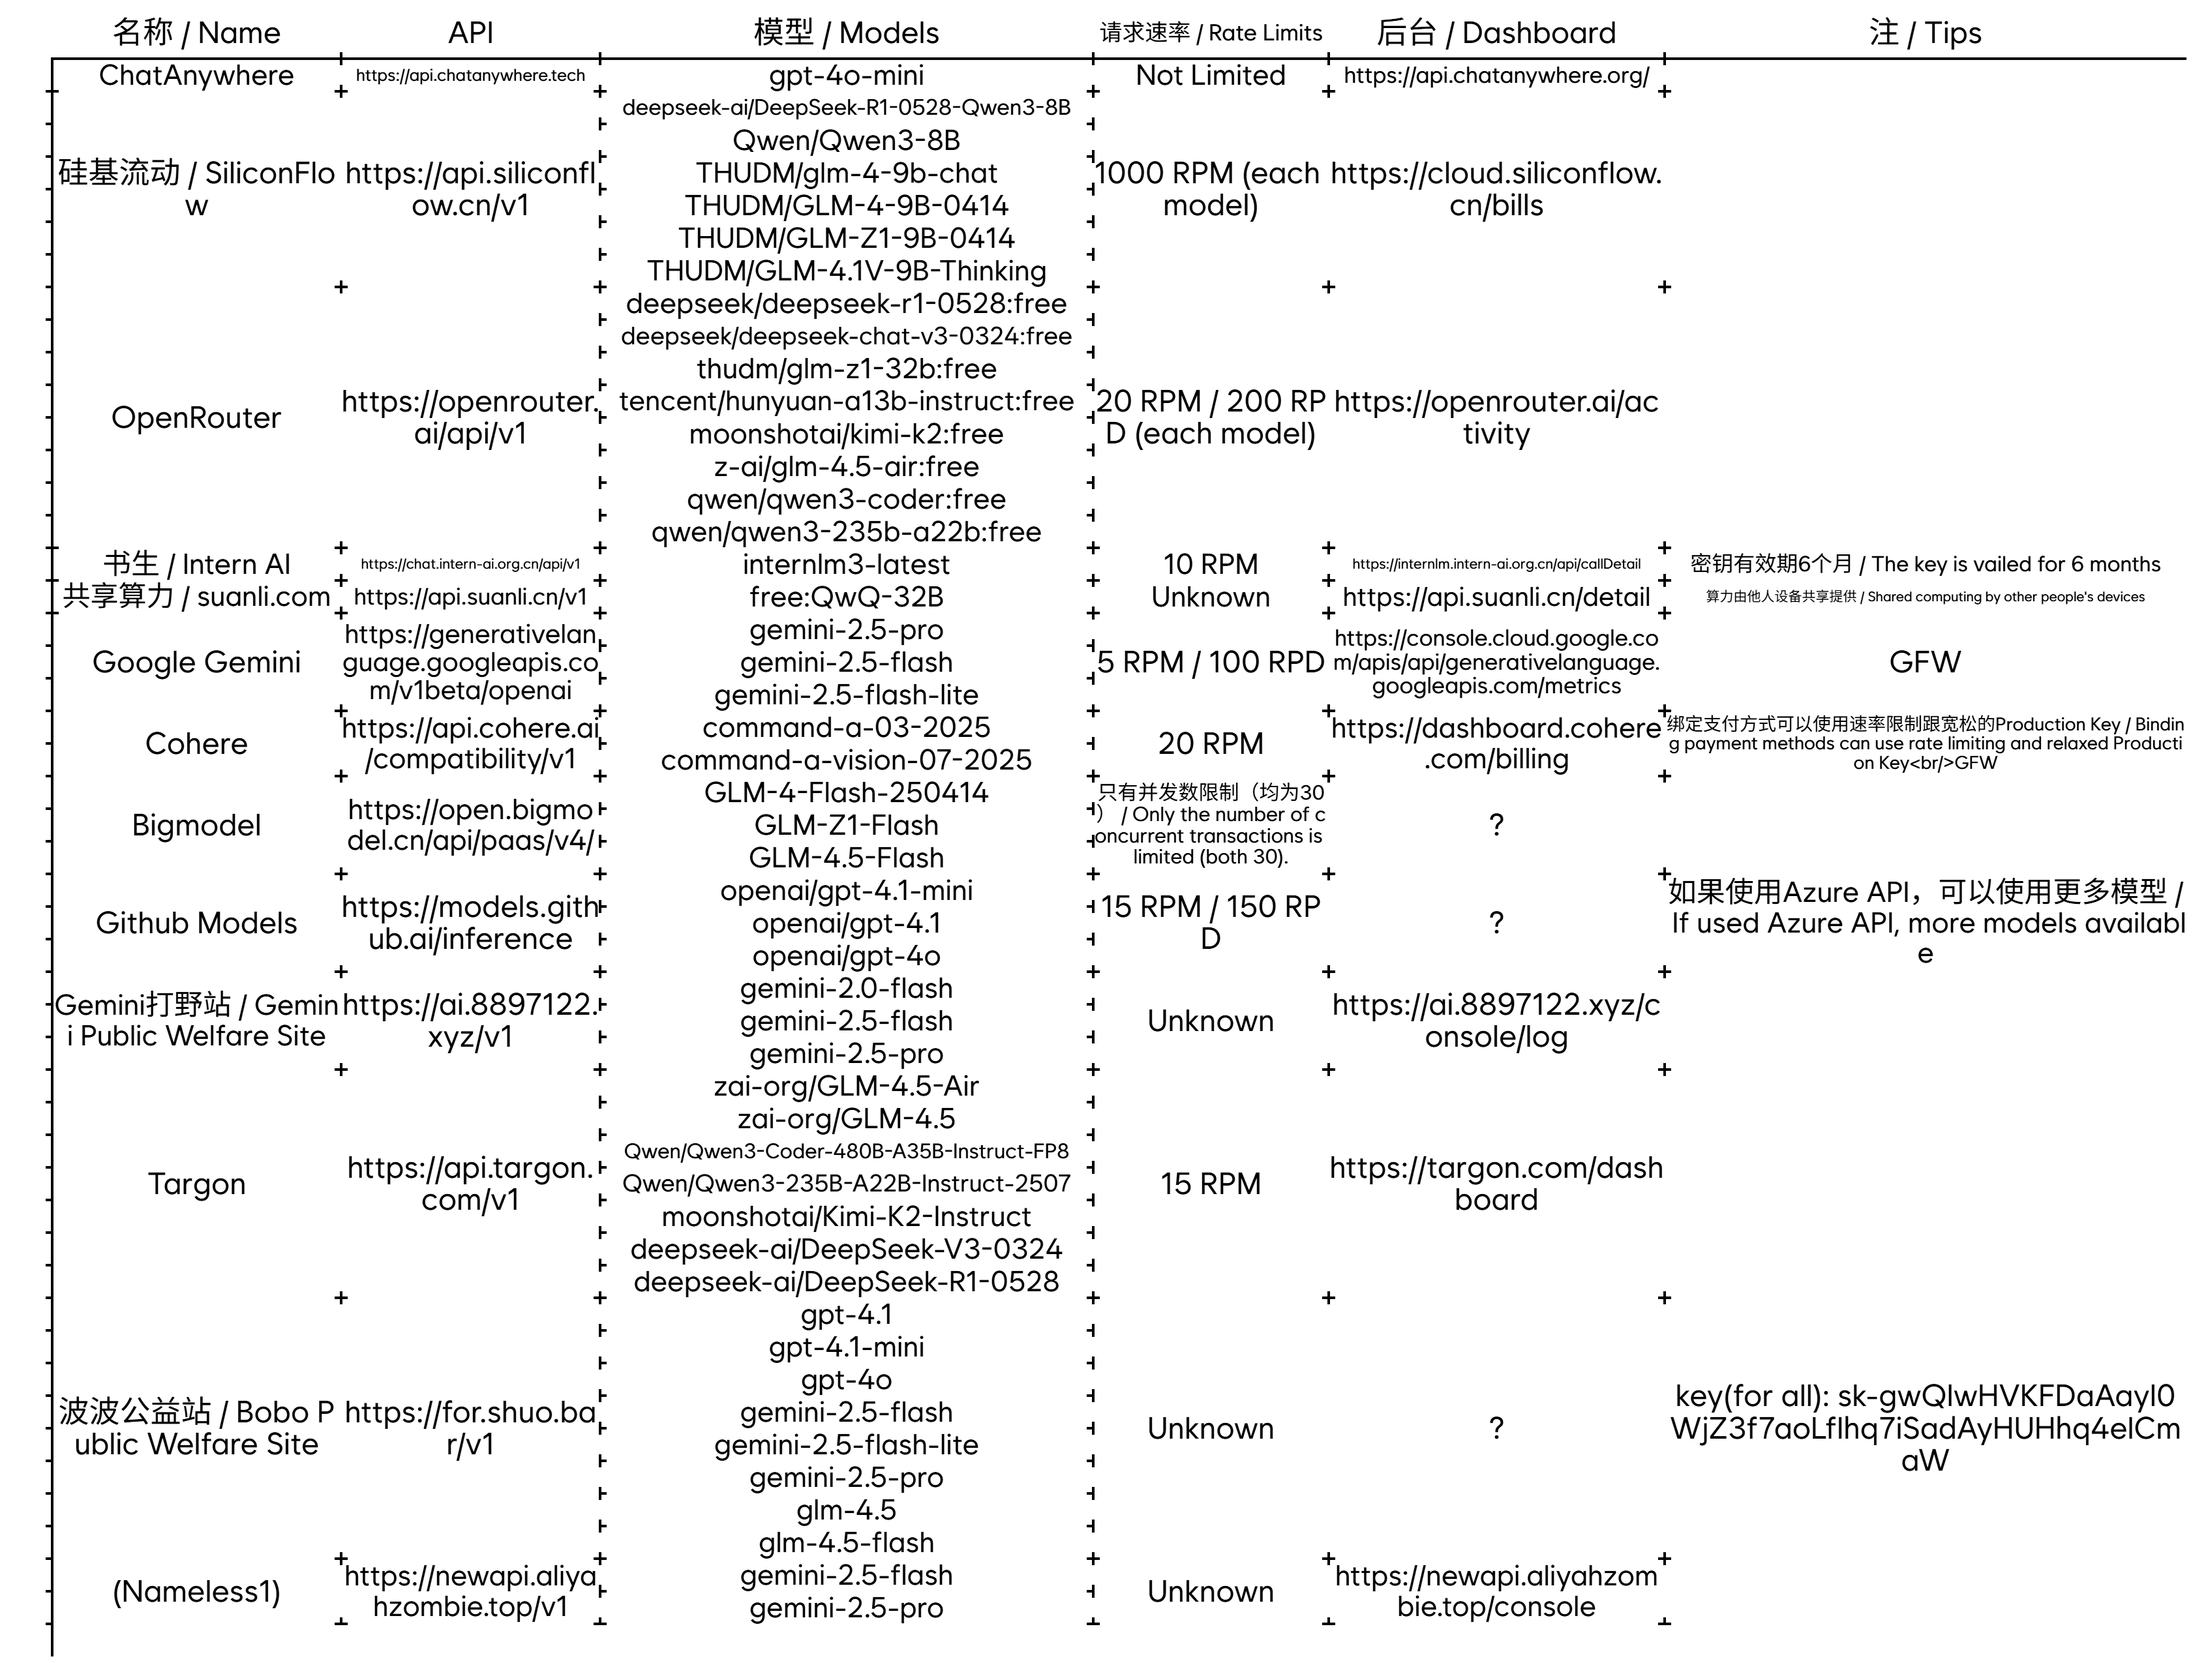
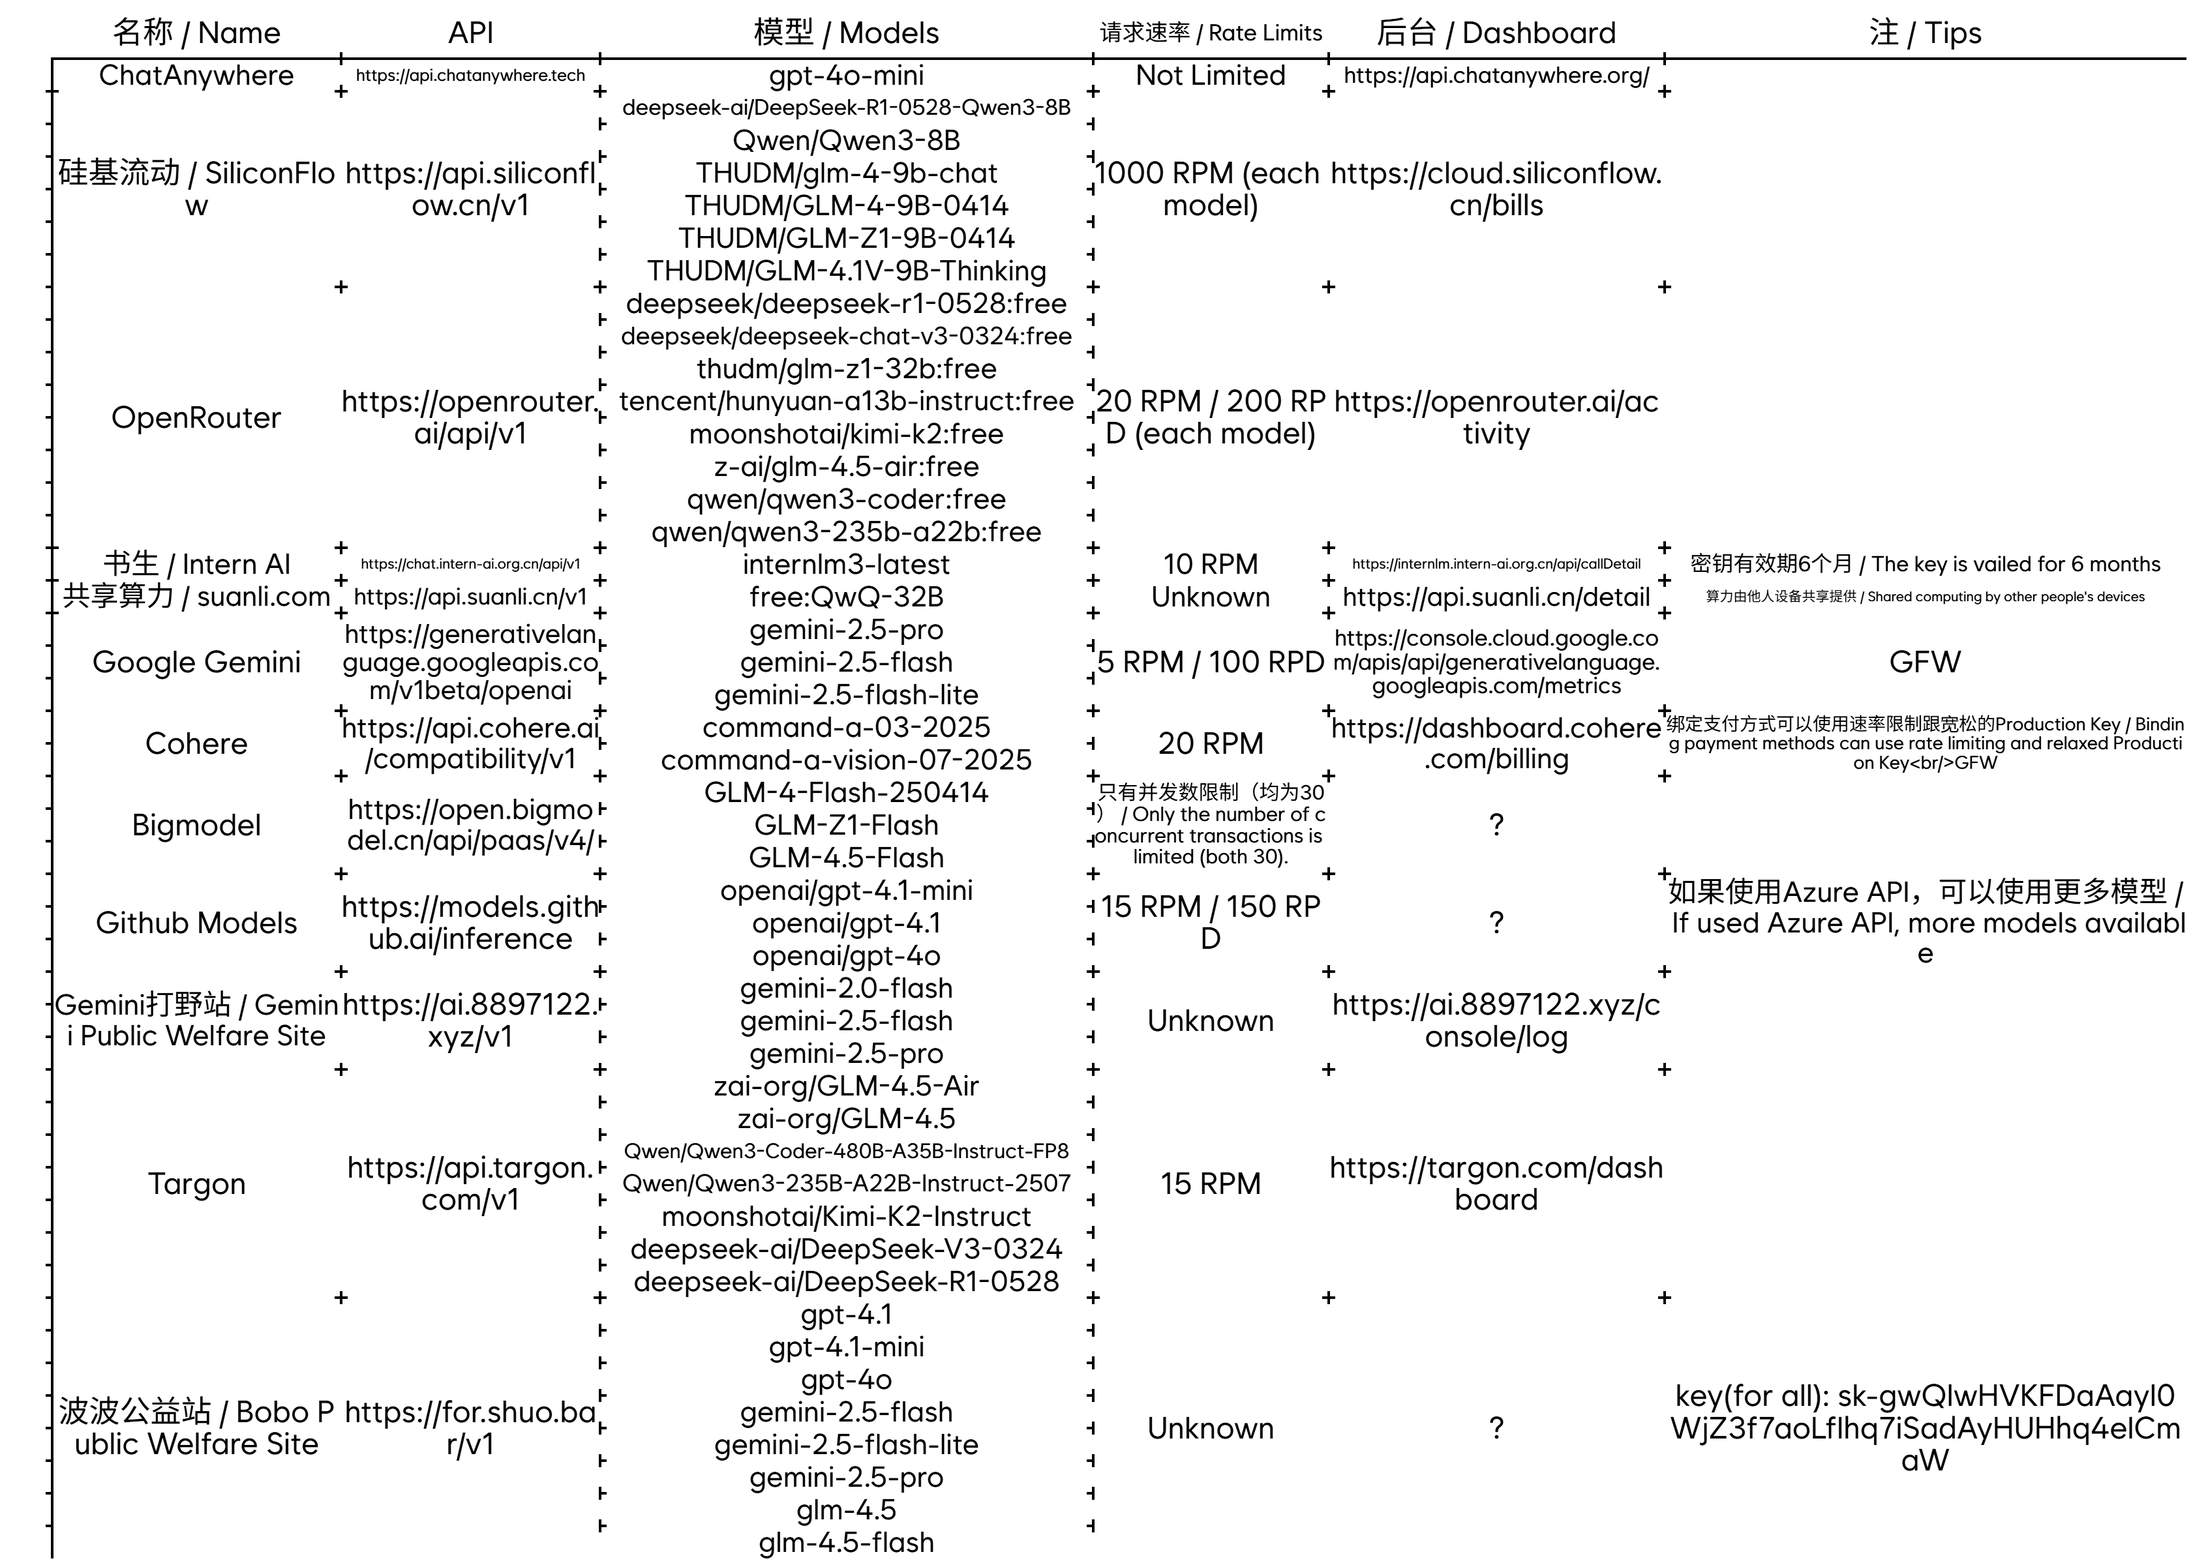
Add files via upload

diff --git a/README.md b/README.md
@@ -50,7 +50,6 @@ This table was generated by Gemini 2.5 Pro, Rendered by [Taple](https://ftz-tool
 | Gemini打野站 / Gemini Public Welfare Site | `https://ai.8897122.xyz/v1`                               | `gemini-2.0-flash` `gemini-2.5-flash` `gemini-2.5-pro`                                                                                                                                                                                    | Unknown                                                                          | `https://ai.8897122.xyz/console/log`                                                  |                                                                                                                     |
 | Targon                                 | `https://api.targon.com/v1`                               | `zai-org/GLM-4.5-Air` `zai-org/GLM-4.5` `Qwen/Qwen3-Coder-480B-A35B-Instruct-FP8` `Qwen/Qwen3-235B-A22B-Instruct-2507` `moonshotai/Kimi-K2-Instruct` `deepseek-ai/DeepSeek-V3-0324` `deepseek-ai/DeepSeek-R1-0528`                        | 15 RPM                                                                           | `https://targon.com/dashboard`                                                        |                                                                                                                     |
 | 波波公益站 / Bobo Public Welfare Site       | `https://for.shuo.bar/v1`                                 | `gpt-4.1` `gpt-4.1-mini` `gpt-4o` `gemini-2.5-flash` `gemini-2.5-flash-lite` `gemini-2.5-pro` `glm-4.5` `glm-4.5-flash`                                                                                                                   | Unknown                                                                          | ?                                                                                     | key(for all): `sk-gwQIwHVKFDaAayI0WjZ3f7aoLfIhq7iSadAyHUHhq4elCmaW`                                                 |
-| (Nameless1)                            | `https://newapi.aliyahzombie.top/v1`                      | `gemini-2.5-flash` `gemini-2.5-pro`                                                                                                                                                                                                       | Unknown                                                                          | `https://newapi.aliyahzombie.top/console`                                             |                                                                                                                     |
 
 ## asak
 
@@ -73,3 +72,13 @@ asak: [for-the-zero/asak](https://github.com/for-the-zero/asak)
 - [llm_benchmark](https://github.com/malody2014/llm_benchmark)：个人评测榜单，可信度高，而且收录更全 / A personal review list, it is highly credible, and it is more comprehensive
 - [Artifical Analysis](https://artificialanalysis.ai/leaderboards/models)
 - [lmsys lmarena](https://lmarena.ai/leaderboard)
+
+### 来源 / Sources
+
+其中[`Gemini打野站`](https://linux.do/t/topic/826787)和[`波波公益站`](https://linux.do/t/topic/838922)来源于[L站](https://linux.do)，均已询问并获得许可
+
+The sources of [`Gemini Public Welfare Site`](https://linux.do/t/topic/826787) and [`Bobo Public Welfare Site`](https://linux.do/t/topic/838922) are from [linux.do](https://linux.do), and have been asked for permission
+
+后续不再主动添加来源于L站的api
+
+APIs from linux.do will not be added actively in the future
